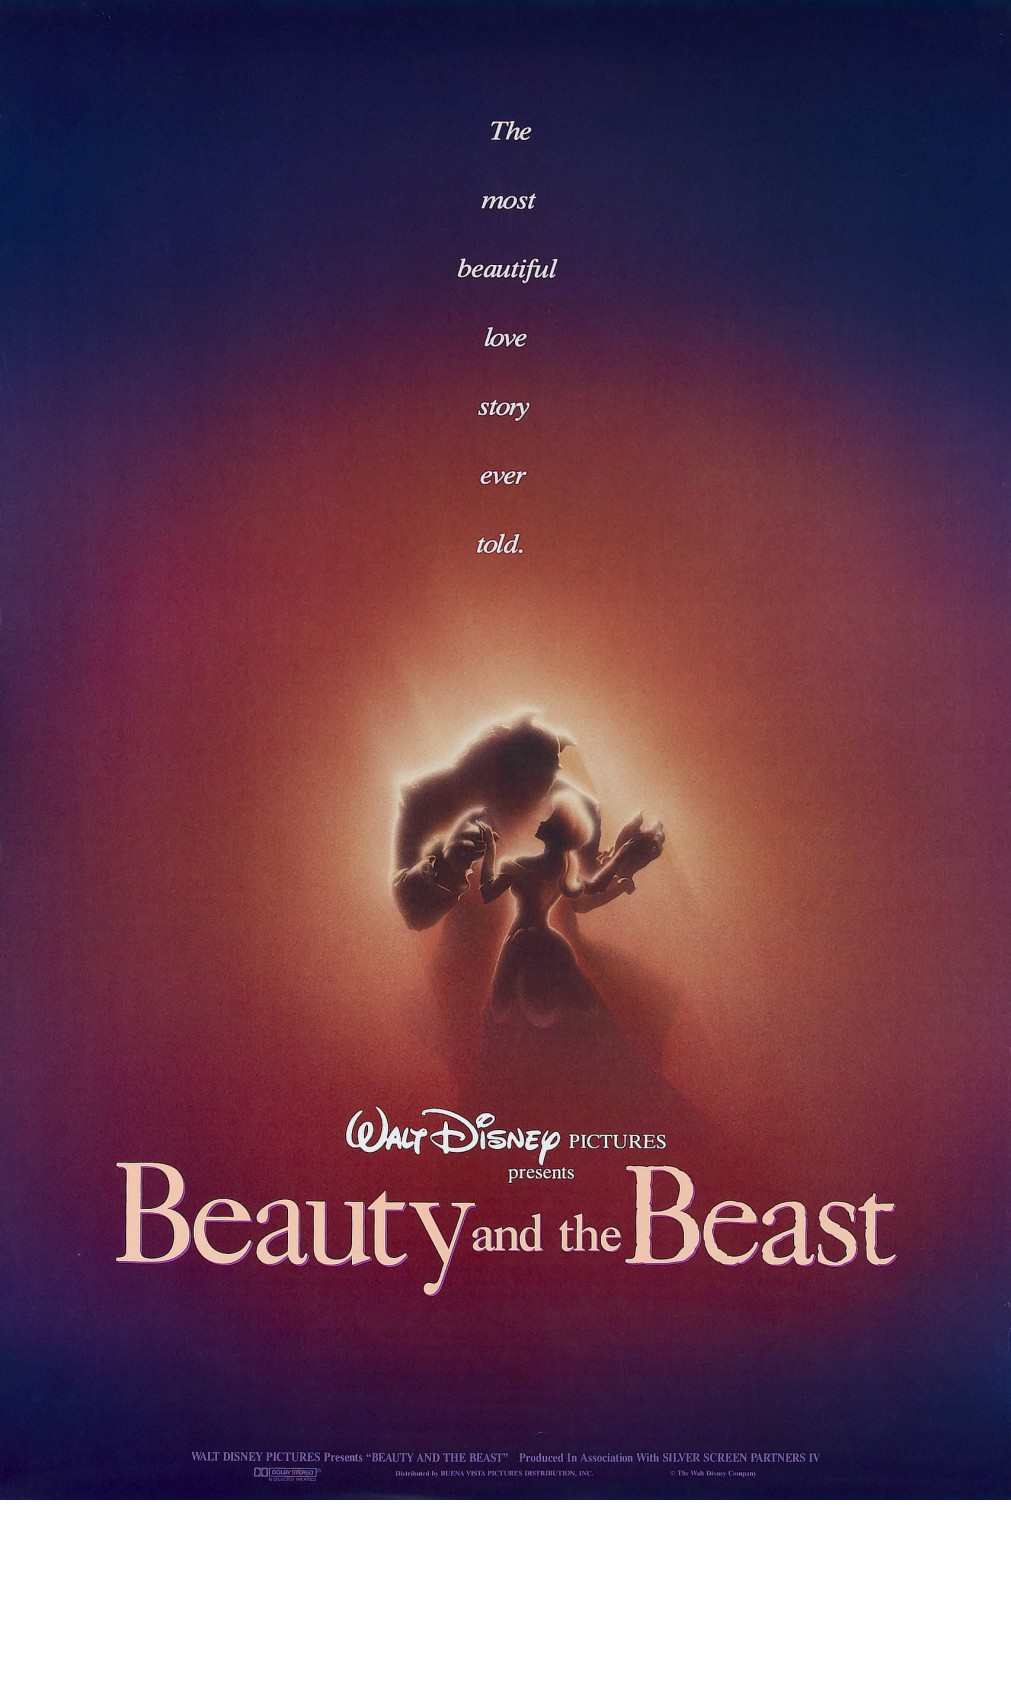
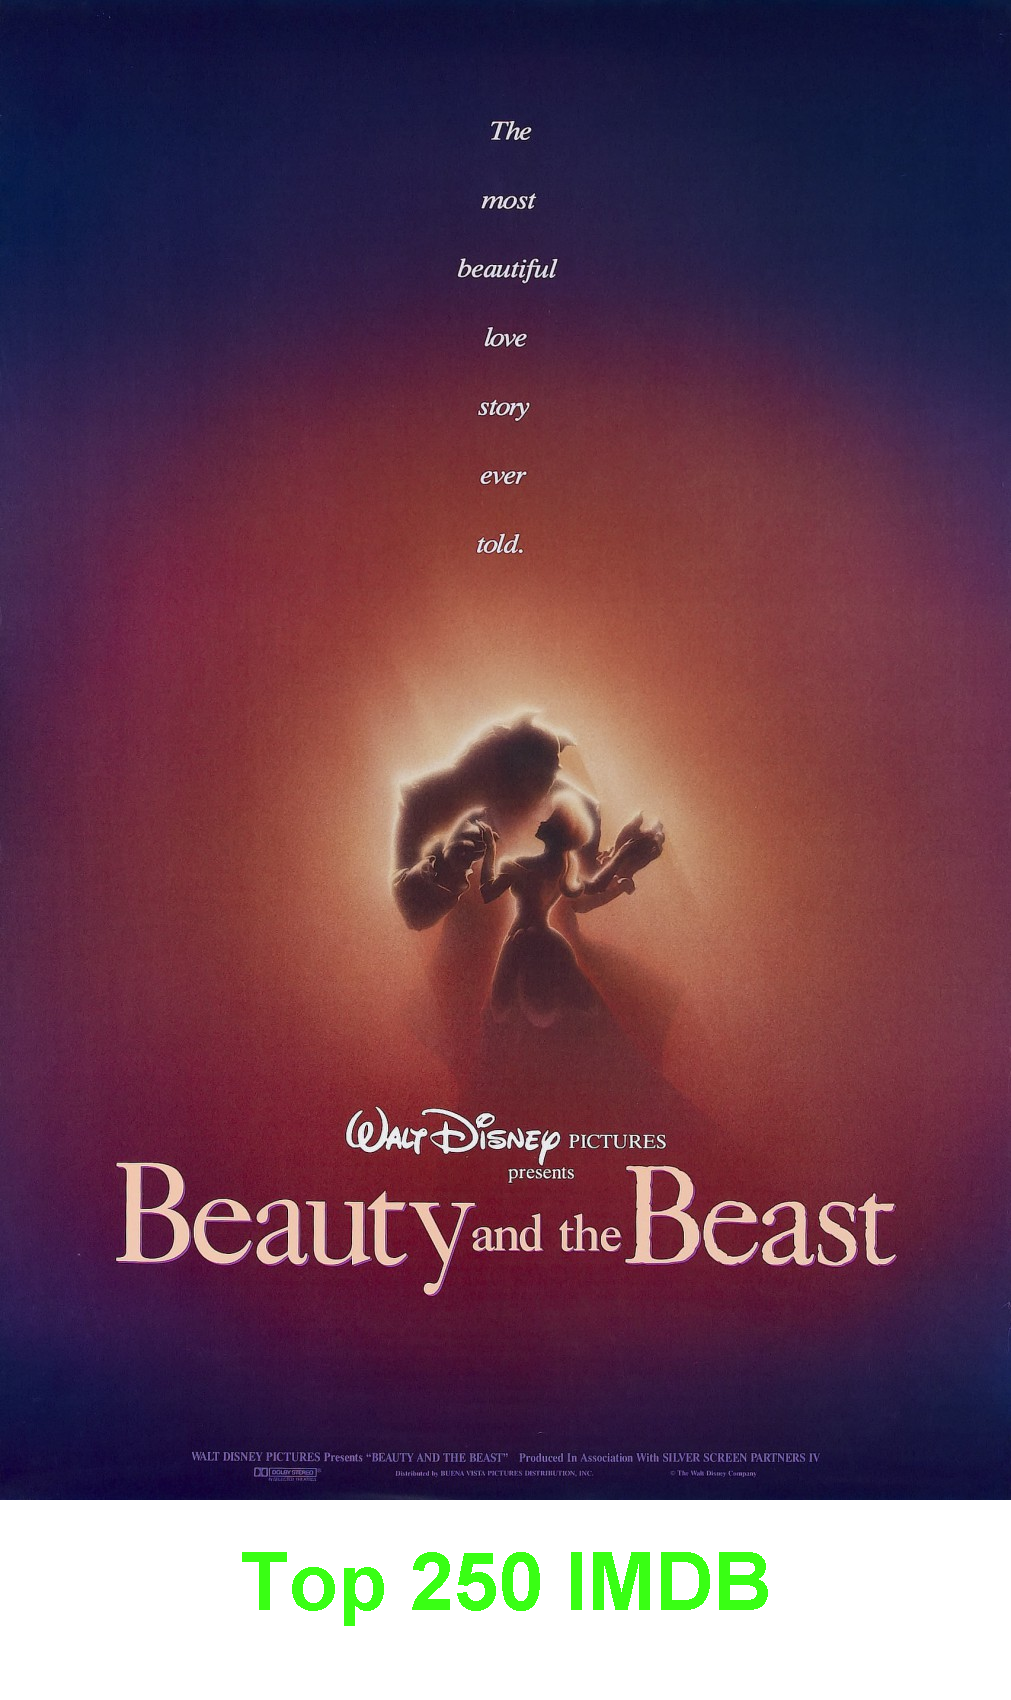
adicionando frase ao Sticker

Changed region(s): [[0.2453, 0.9041, 0.7666, 0.9665]]

diff --git a/alura-stickers/src/GeradoraDeStickers.java b/alura-stickers/src/GeradoraDeStickers.java
@@ -1,6 +1,8 @@
 import java.awt.Graphics2D;
 import java.awt.image.BufferedImage;
 import java.io.File;
+import java.awt.Color;
+import java.awt.Font;
 
 import javax.imageio.ImageIO;
 
@@ -20,8 +22,13 @@ public class GeradoraDeStickers {
         Graphics2D graphics = (Graphics2D) novaImagem.getGraphics();
         graphics.drawImage(imagemOriginal, 0, 0, null);
 
+        //Editar Fonte padrão
+        var fonte = new Font(Font.SANS_SERIF, Font.BOLD, 80);
+        graphics.setColor( new Color( 57, 255, 20 ) );
+        graphics.setFont(fonte);
+
         //add uma frase para a nova imagem
-        graphics.drawString("Top 250", 0, novaAltura - 100);
+        graphics.drawString("Top 250 IMDB", 240, novaAltura - 80);
 
         //escrever a nova imagem em um arquivos
         ImageIO.write(novaImagem, "png", new File("saida/figurinha.png"));
